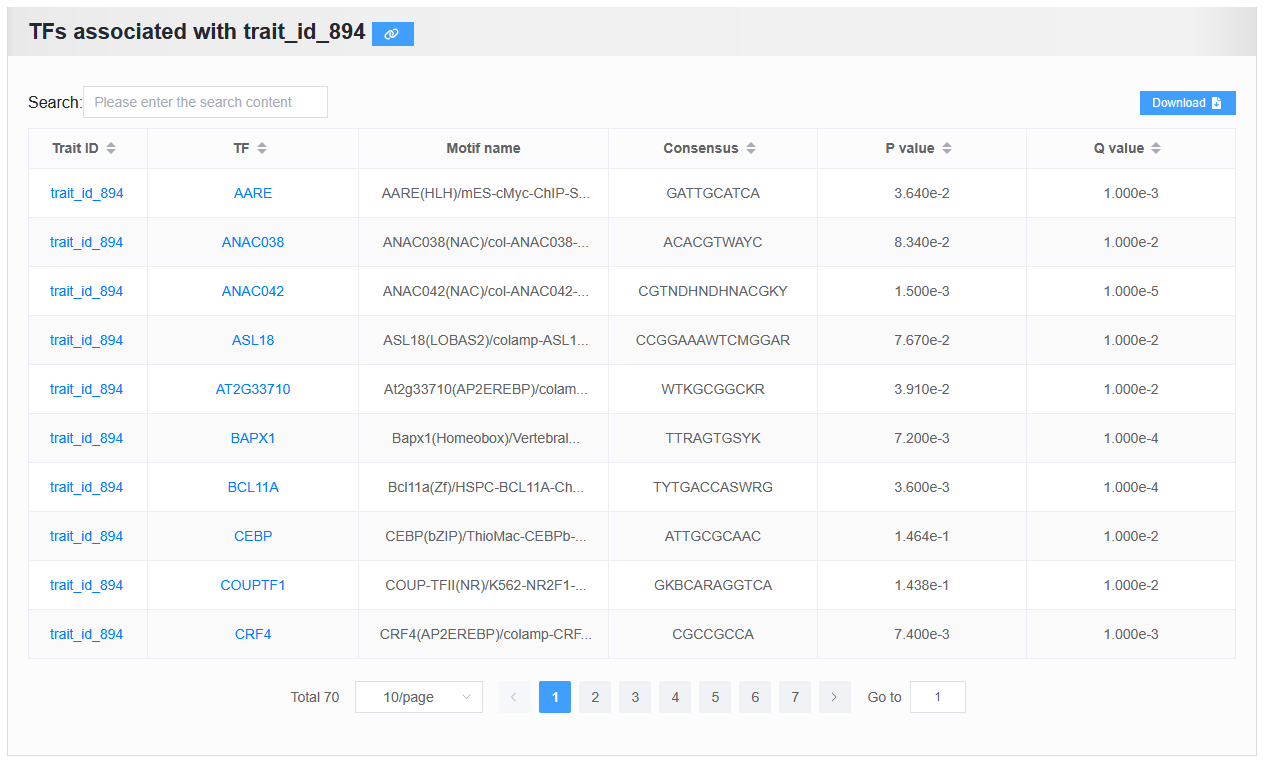
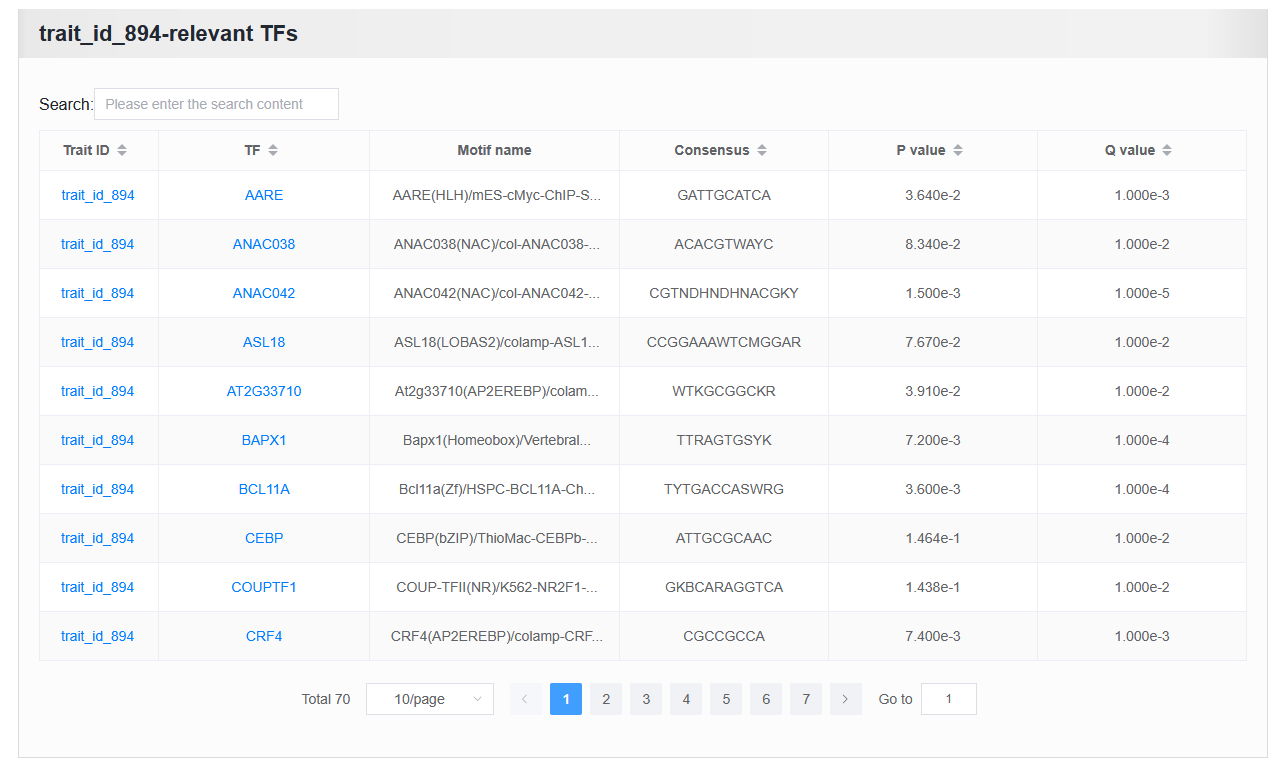
feat: Improve information content

diff --git a/docs/source/usage/detail.rst b/docs/source/usage/detail.rst
@@ -51,7 +51,7 @@ Click on the ``Source ID`` field value, and the page will pop up displaying deta
 
     Among these, six fields (`Type`, `ICD-10`, `Category`, `Subcategory`, `Three category`) were manually added. There is a very small probability of misclassification. If you find any, please inform us at yuzmbio@163.com. Thank you very much for your contribution.
 
-2.4.2 Enriched cells
+2.4.2 TRS
 ^^^^^^^^^^^^^^^^^^^^^^^^^^^^^^^
 
 We provide two parts, the first part is to display the information of sample enrichment, and the second part is to select a certain enriched sample and visualize the enrichment effect.
@@ -97,7 +97,7 @@ After running, we can see the differential gene expression heatmap of BCC case i
 
 .. image:: ../img/detail/differential_genes_article.png
 
-2.4.4 Genes with enriched trait
+2.4.4 Trait-relevant genes
 ^^^^^^^^^^^^^^^^^^^^^^^^^^^^^^^
 
 For the given traits, we performed MAGMA gene-level analysis, followed by pathway and GO enrichment analysis of significantly associated genes, with the results visualized using bubble plots.
@@ -128,7 +128,7 @@ It displays a data table and heatmap of the differences TF between cell types.
 
 .. image:: ../img/detail/differential_tfs.png
 
-2.4.7 TFs with enriched trait
+2.4.7 Trait-relevant TFs
 ^^^^^^^^^^^^^^^^^^^^^^^^^^^^^^^
 
 It displays the results of TF enrichment analysis for this trait using HOMER.

diff --git a/docs/source/index.rst b/docs/source/index.rst
@@ -16,9 +16,9 @@ and impacts of genetic variations at the single-cell level. With the accumulatio
 association studies (GWAS) and single-cell genomic data, there is an urgent need for comprehensive
 analysis and efficient exploration of these data to uncover the underlying biological processes.
 For this purpose, we designed SCVdb (https://bio.liclab.net/scvdb/), a comprehensive user-friendly,
-large-scale database that is designed to explore populations of interest for relevant traits or diseases
+large-scale database that is designed to provide cell populations of interest for relevant traits or diseases
 at the cellular level or at the level of cell types, and to provide them with comprehensive annotation
-and enrichment analyses. The current version of SCVdb supports ``~180`` scATAC-seq datasets and ``~15,800`` fine-mapping
+and enrichment analysis. The current version of SCVdb supports ``~180`` scATAC-seq datasets and ``over 15,800`` fine-mapping
 result datasets. The number of valid trait- or disease-scATAC-seq data pairs exceeds ``1,923,500``, among
 which the number of trait- or disease-cell pairs is as high as ``15.95 billion``, providing valuable
 resources for exploring the functional localization of single-cell variations. In addition, we

diff --git a/docs/source/problem.rst b/docs/source/problem.rst
@@ -29,7 +29,7 @@ Therefore, you need to ``clear the cache and access it again``.
 
 .. tip::
 
-    If you have accessed the SCVdb database link before August 1, 2025, it is recommended to clear the cache and access again.
+    If you have accessed the SCVdb database link before August 5, 2025, it is recommended to clear the cache and access again.
 
 4.3 Publicize front-end and back-end code
 ----------------------------------------------

diff --git a/docs/source/usage/search/gene.rst b/docs/source/usage/search/gene.rst
@@ -23,6 +23,8 @@ Click the 'View' button to see the details of a trait or disease associated with
 
 .. image:: ../../img/search/gene/gene_trait_view2.png
 
+.. image:: ../../img/search/gene/gene_trait_view3.png
+
 3. Display the content of the gene annotation and ten annotation topics by overlapping.
 
 .. image:: ../../img/search/gene/gene_regulation.png
